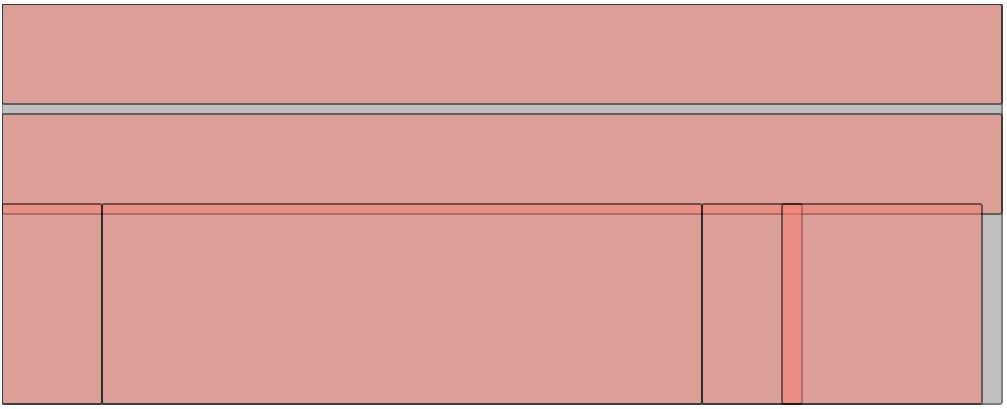
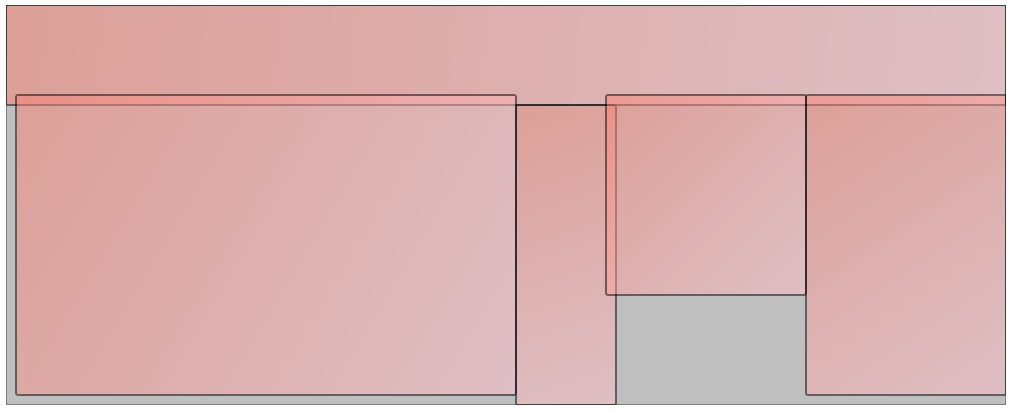
Add gradient to boxes

diff --git a/container_arrangements.html b/container_arrangements.html
@@ -3,7 +3,7 @@
 
 <head>
 	<!-- Load the Paper.js library -->
-	<script type="text/javascript" src="dist/paper-core.min.js"></script>
+	<script type="text/javascript" src="dist/paper-full.min.js"></script>
 	<!-- Define inlined PaperScript associate it with myCanvas -->
 	<script type="text/javascript">
 		var arrangements = {};
@@ -57,12 +57,22 @@
 			draw_item(0, 0, w, h, 'grey')
 		}
 		function draw_box(x, y, w, h) {
-			draw_item(x, y, w, h, 'salmon')
+			draw_item(x, y, w, h, boxGradient(x, y, w, h))
+		}
+
+		function boxGradient(x, y, w, h) {
+			return {
+				gradient: {
+					stops: ['salmon', 'pink']
+				},
+				origin: new paper.Point(x, y),
+				destination: new paper.Point(x + w, y + h)
+			}
 		}
 
 		window.onload = function () {
 			// add some JSON-encoded arrangements to specific canvases:
-			add_arrangement('myCanvas1', '{ "container":{ "w":1000, "h":400 } , "boxes":[{"x":0, "y":0, "w":1000, "h":100}, {"x":10, "y":90, "w":500, "h":300}]}');
+			add_arrangement('myCanvas1', '{ "container":{ "w":1000, "h":400 } , "boxes":[{"x":0, "y":0, "w":1000, "h":100}, {"x":10, "y":90, "w":500, "h":300}, {"x":510, "y":100, "w":100, "h":300}, {"x":600, "y":90, "w":200, "h":200}, {"x":800, "y":90, "w":200, "h":300}]}');
 
 			// draw the saved arrangements onto the canvases:
 			draw_arrangements();
